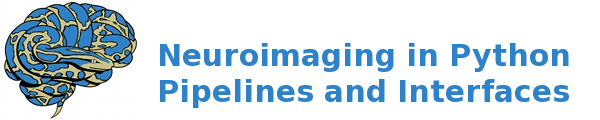
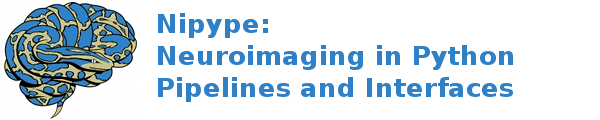
revamped main page
git-svn-id: https://nipy.svn.sourceforge.net/svnroot/nipy/nipype/trunk@1892 ead46cd0-7350-4e37-8683-fc4c6f79bf00

Changed region(s): [[0.24, 0.625, 0.96, 0.9], [0.24, 0.35, 0.96, 0.6], [0.24, 0.1, 0.45, 0.325]]

diff --git a/doc/_templates/layout.html b/doc/_templates/layout.html
@@ -2,15 +2,14 @@
 {% set title = 'Neuroimaging in Python' %}
 
 {% block rootrellink %}
-  <li><a href="http://nipy.sourceforge.net/">Community</a> |&nbsp;</li>
-  <li><a href="http://nipy.sourceforge.net/devel">Develop</a> |&nbsp;</li>
-  <li><a href="http://nipy.sourceforge.net/software/projects">Software</a> |&nbsp;</li>
-  <li><a href="http://projects.scipy.org/mailman/listinfo/nipy-devel">Mailing list</a> |&nbsp;</li>
+  <li><a href="http://sourceforge.net/apps/trac/nipy/wiki">Develop</a> |&nbsp;</li>
+  <li><a href="http://groups.google.com/group/nipype-user">Mailing list</a> |&nbsp;</li>
   <li><a href="http://nipy.sourceforge.net/software/license">License</a> |&nbsp;</li>
+  <li><a href="http://nipy.sourceforge.net/">Nipy</a></li>
 {% endblock %}
 
 {% block extrahead %}
-  <meta name="keywords" content="nipy, neuroimaging, python, neuroscience">
+  <meta name="keywords" content="nipype, neuroimaging, pipeline, workflow, parallel, python, neuroscience">
 {% endblock %}
 
 {% block header %}

diff --git a/doc/index.rst b/doc/index.rst
@@ -1,7 +1,3 @@
-=============
- Nipype Home
-=============
-
 Current neuroimaging software offer users an incredible opportunity to
 analyze their data in different ways, with different underlying
 assumptions. However, this has resulted in a heterogeneous collection
@@ -13,16 +9,23 @@ umbrella of Nipy, is a Python project that provides a uniform
 interface to existing neuroimaging software and facilitates
 interaction between these packages within a single workflow. Nipype
 provides an environment that encourages interactive exploration of
-algorithms from different packages (e.g., SPM, FSL, FreeSurfer), eases
+algorithms from different packages (e.g., SPM, FSL, FreeSurfer, AFNI, Slicer), eases
 the design of workflows within and between packages, and reduces the
 learning curve necessary to use different packages. Nipype is creating
 a collaborative platform for neuroimaging software development in a
 high-level language and addressing limitations of existing pipeline
-systems. 
+systems.
+
+*Nipype* allows you to:
+
+* easily combine processing steps from different software packages
+* develop new workflows faster by reusing common steps from old ones
+* process data faster by running it in parallel on many cores/machines
+* make your research easily reproducible
+* share your processing workflows with the community
 
 
 :ref:`documentation` : details and tutorials showing how to use nipype
-`Nightly documentation <http://www.mit.edu/~satra/nipype-nightly/>`_
 
 :ref:`install` : lists software dependencies and installation instructions
 

diff --git a/doc/devel/index.rst b/doc/devel/index.rst
@@ -9,7 +9,7 @@
 
 Since nipype is part of the NIPY_ project, we follow the same
 conventions documented in the `NIPY Developers Guide
-<http://nipy.sourceforge.net/devel>`_.
+<http://nipy.sourceforge.net/devel>`_. For bleeding-edge version help see `Nightly documentation <http://www.mit.edu/~satra/nipype-nightly/>`_
 
 .. toctree::
    :maxdepth: 2

diff --git a/doc/documentation.rst b/doc/documentation.rst
@@ -18,3 +18,5 @@ Contents:
    interfaces/index
    devel/index
    api/index
+
+For bleeding-edge version see `Nightly documentation <http://www.mit.edu/~satra/nipype-nightly/>`_
